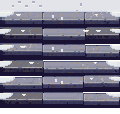
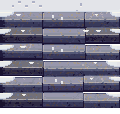
Frostline A1: the stair's risers in the stone's own shade
The riser under each nose is the slab's own stone in shade (tones 2 then 1) with
only its last row the contact line, instead of a navy band (still half the pitch).

Claude-Session: https://claude.ai/code/session_01UudrmtYkicLNgZeuSjvjrK

diff --git a/scripts/art/kit/sets/frost/rock.py b/scripts/art/kit/sets/frost/rock.py
@@ -1363,8 +1363,9 @@ def _granite_stair(W, seed):
                             f = 'slate_warm' if fam != 'iron' else fam       # the lit plane warm
                     else:
                         rr = y - nose - 1                                    # the riser, 8 rows under the nose
-                        t = 2 if rr == 0 else (1 if rr <= 3 else 0)
-                        f = fam if rr <= 3 else 'slate_cool'
+                        # the riser: its stone in shade under the nose, the contact line at its foot
+                        t = 2 if rr <= 1 else (1 if rr <= 6 else 0)
+                        f = fam if rr <= 5 else 'slate_cool'
                     if x == x0 and x0 > 0:
                         # the joint between slabs: a dark seam on the riser, a fine one on the tread
                         t, f = (0, 'slate_cool') if y > nose else (max(1, t - 2), fam)
